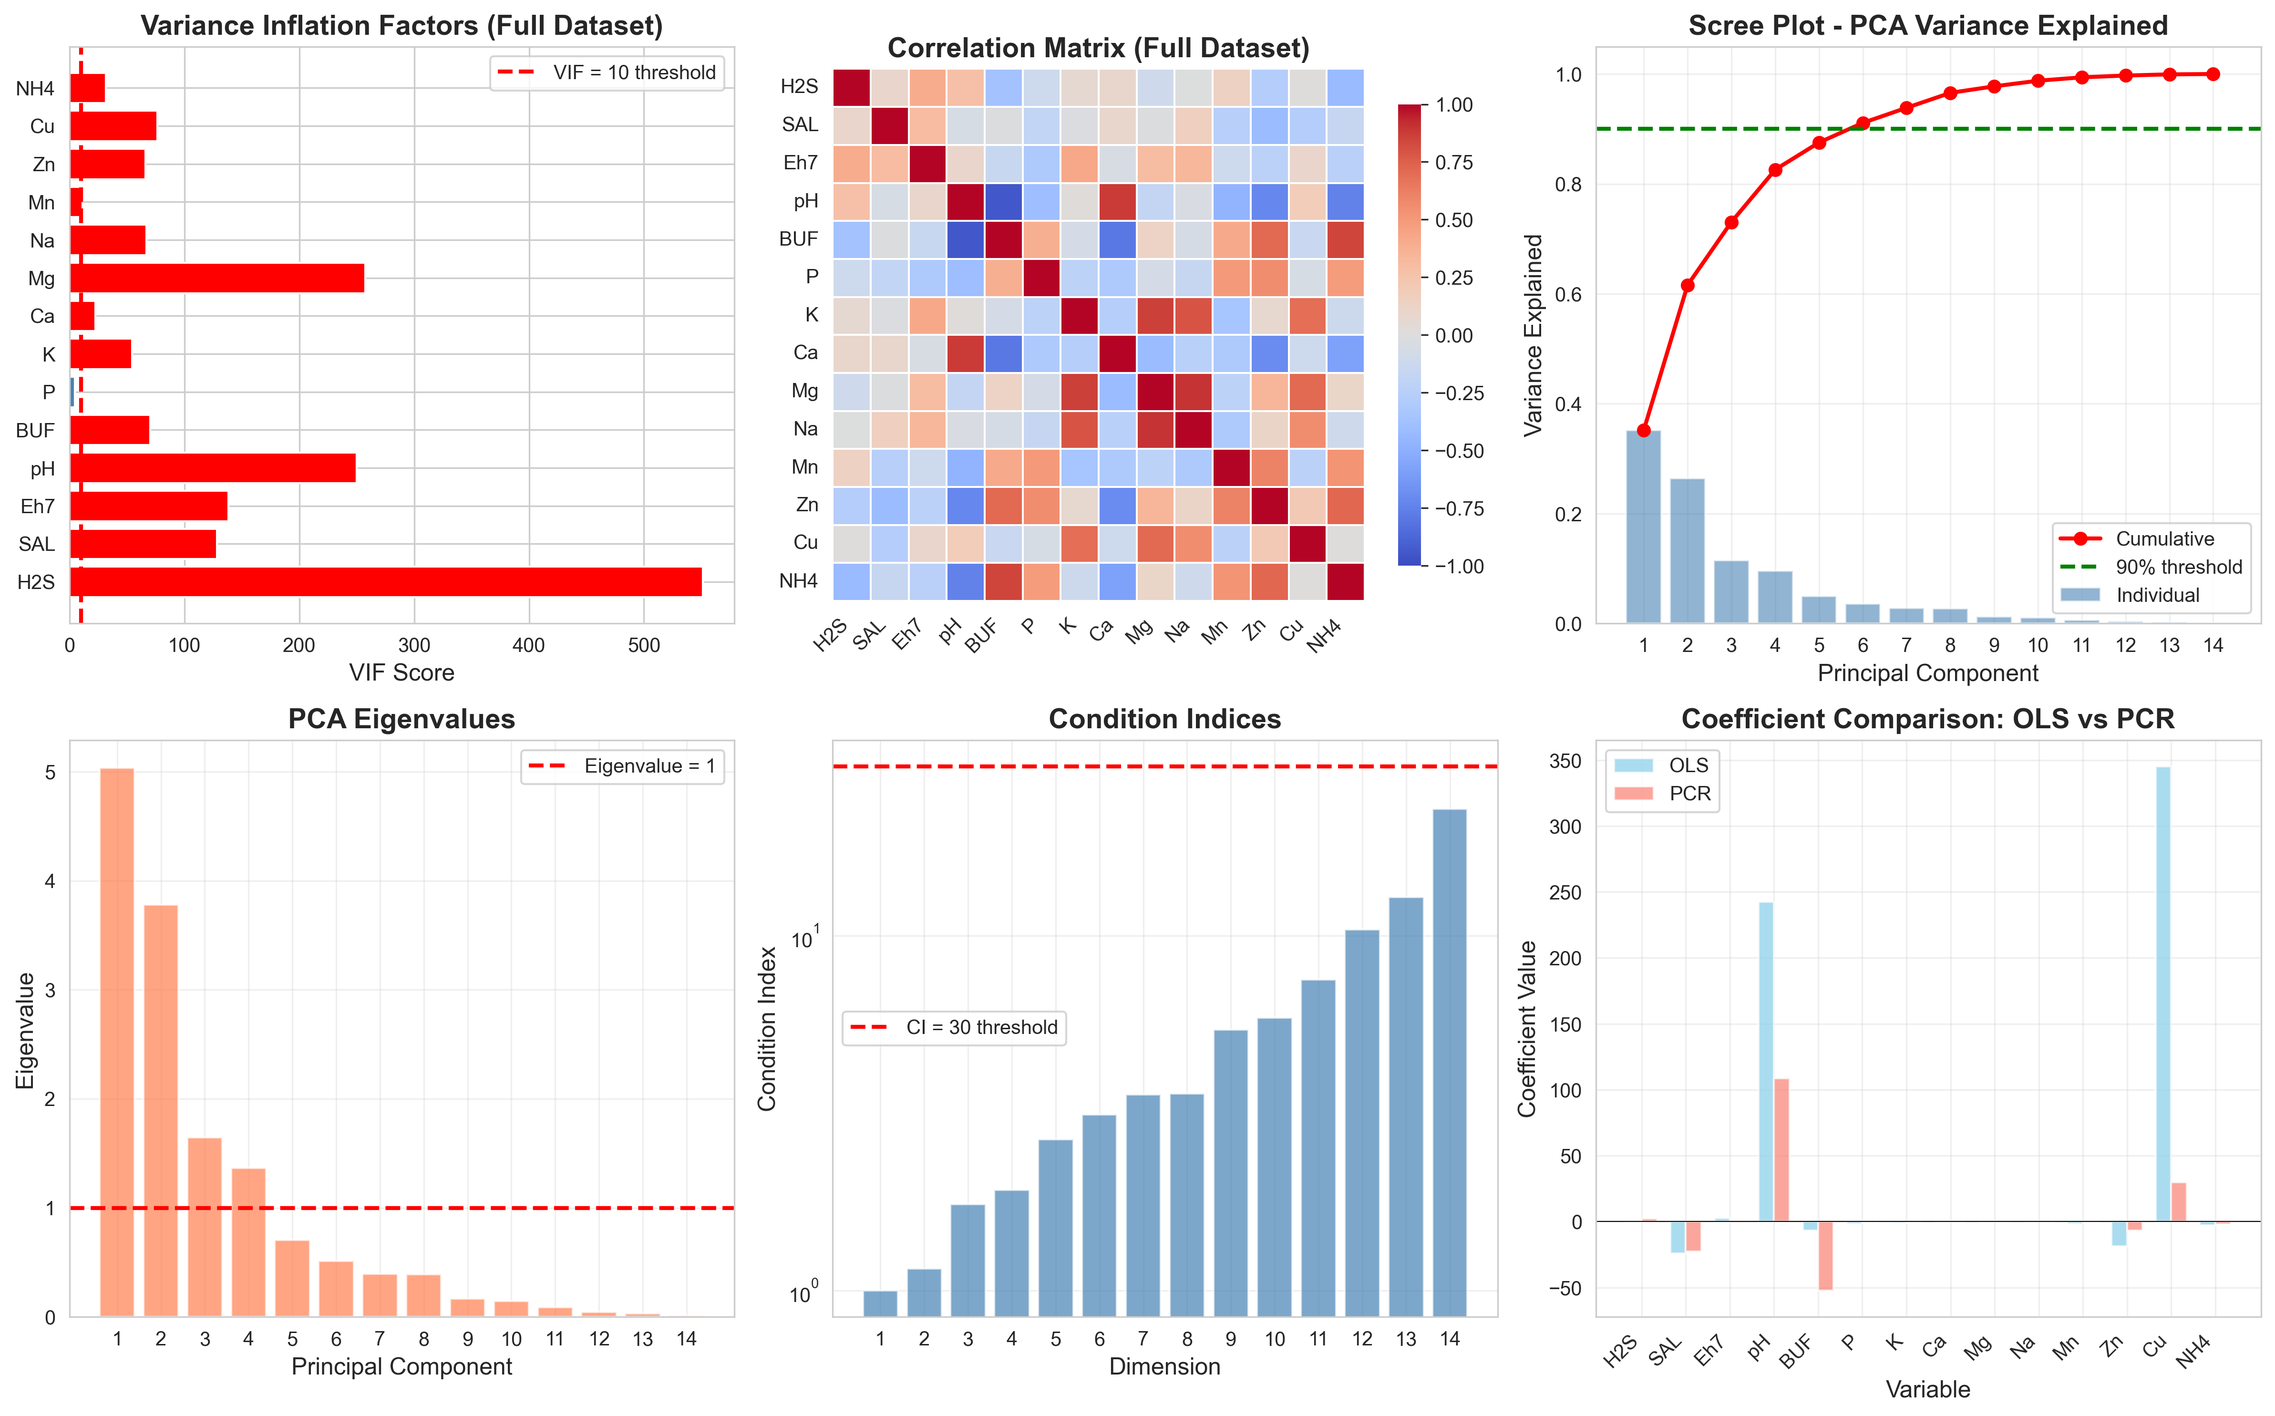
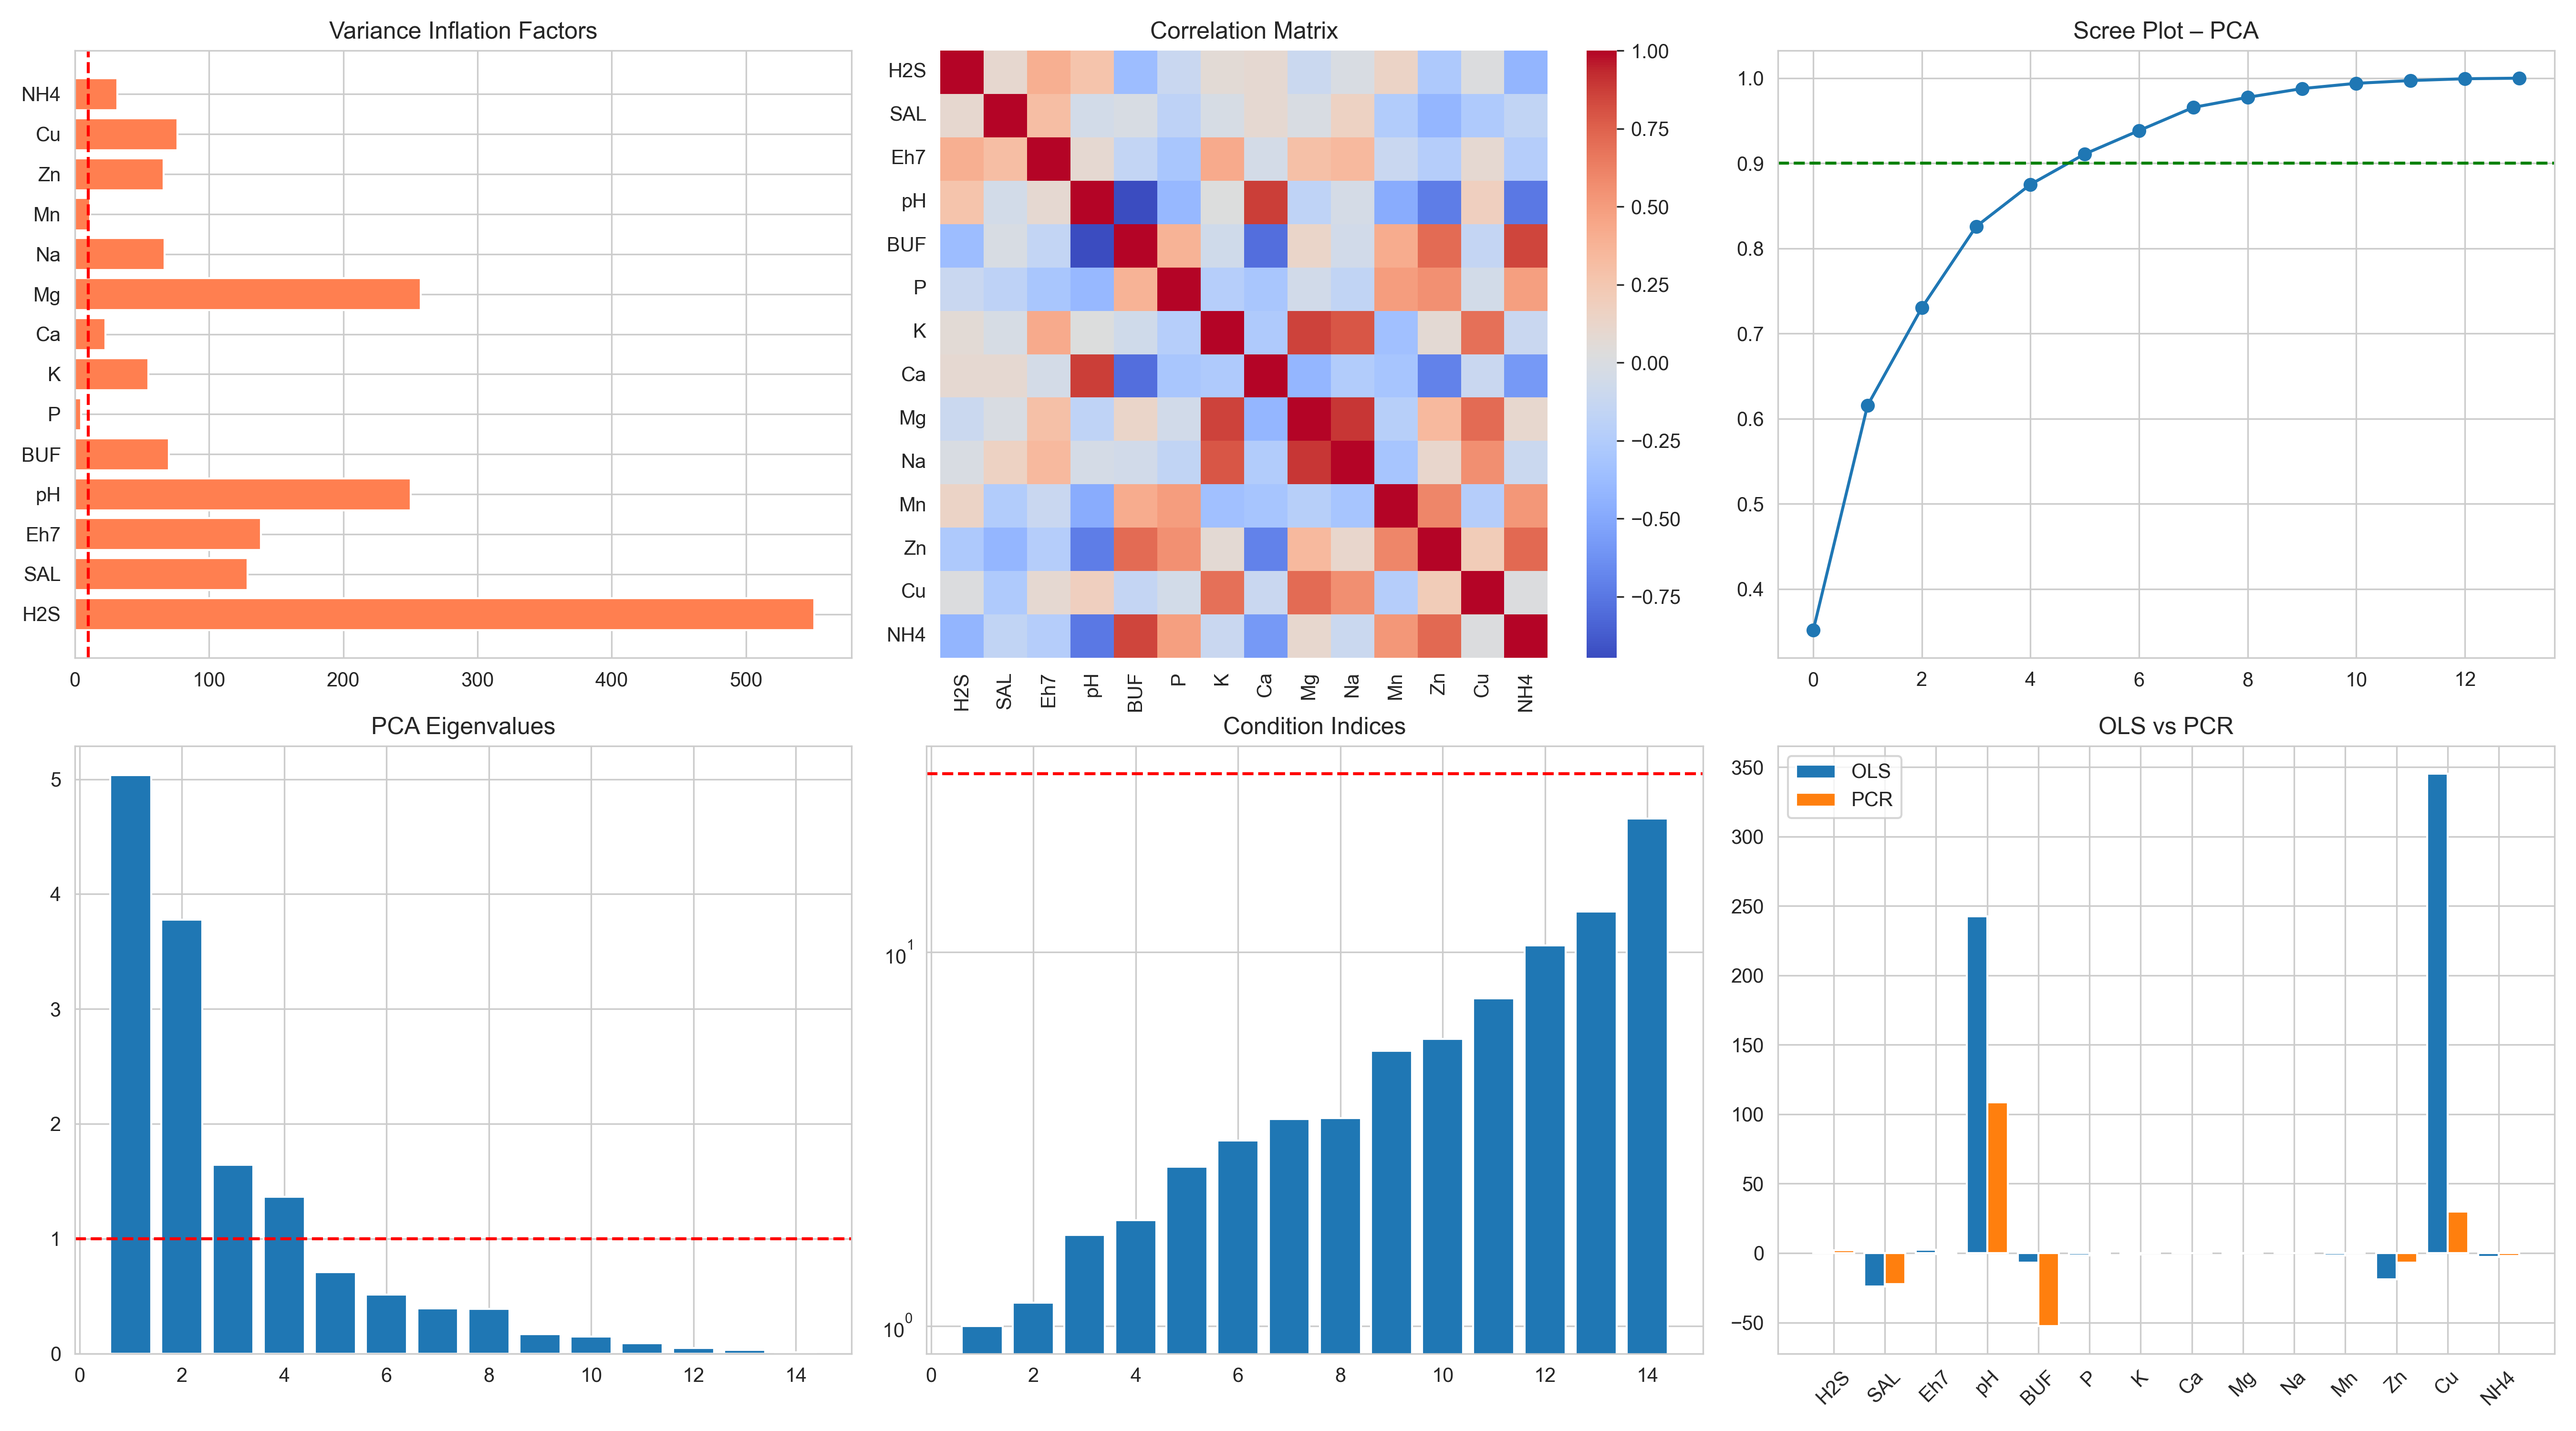
Update visualizations.py file

diff --git a/visualizations.py b/visualizations.py
@@ -1,8 +1,3 @@
-"""
-Visualization Script for Linthurst Project
-Generates plots for the report
-"""
-
 import numpy as np
 import pandas as pd
 import matplotlib.pyplot as plt
@@ -11,255 +6,178 @@ from sklearn.preprocessing import StandardScaler
 from sklearn.decomposition import PCA
 from sklearn.linear_model import Ridge
 from statsmodels.stats.outliers_influence import variance_inflation_factor
+import statsmodels.api as sm
+from itertools import combinations
 
-# Set style
+# Style
 sns.set_style("whitegrid")
-plt.rcParams['figure.figsize'] = (12, 8)
+plt.rcParams["figure.figsize"] = (15, 10)
 
 # Load data
-data_full = pd.read_csv('LINTHALL.txt', delim_whitespace=True)
-data_5 = pd.read_csv('LINTH-5.txt', delim_whitespace=True)
+data_full = pd.read_csv("LINTHALL.txt", delim_whitespace=True)
+data_5 = pd.read_csv("LINTH-5.txt", delim_whitespace=True)
 
-# ============================================================================
-# PART I VISUALIZATIONS
-# ============================================================================
+# =====================================================================
+# PART 1 VISUALS
+# =====================================================================
 
-fig = plt.figure(figsize=(16, 10))
+fig1 = plt.figure(figsize=(18, 10))
 
-# 1. VIF Bar Plot (Full Dataset)
-plt.subplot(2, 3, 1)
-X_vars = ['H2S', 'SAL', 'Eh7', 'pH', 'BUF', 'P', 'K', 'Ca', 'Mg', 'Na', 'Mn', 'Zn', 'Cu', 'NH4']
+X_vars = ['H2S','SAL','Eh7','pH','BUF','P','K','Ca','Mg','Na','Mn','Zn','Cu','NH4']
 X = data_full[X_vars].values
+y = data_full["BIO"].values
+
+# 1. VIF
+plt.subplot(2,3,1)
 vif_scores = [variance_inflation_factor(X, i) for i in range(X.shape[1])]
-colors = ['red' if v > 10 else 'steelblue' for v in vif_scores]
-plt.barh(X_vars, vif_scores, color=colors)
-plt.axvline(x=10, color='red', linestyle='--', linewidth=2, label='VIF = 10 threshold')
-plt.xlabel('VIF Score', fontsize=12)
-plt.title('Variance Inflation Factors (Full Dataset)', fontsize=14, fontweight='bold')
-plt.legend()
-plt.tight_layout()
+plt.barh(X_vars, vif_scores, color="coral")
+plt.axvline(10, color="red", linestyle="--")
+plt.title("Variance Inflation Factors")
 
 # 2. Correlation Heatmap
-plt.subplot(2, 3, 2)
-corr_matrix = data_full[X_vars].corr()
-sns.heatmap(corr_matrix, cmap='coolwarm', center=0, vmin=-1, vmax=1,
-            square=True, linewidths=0.5, cbar_kws={"shrink": 0.8},
-            xticklabels=X_vars, yticklabels=X_vars)
-plt.title('Correlation Matrix (Full Dataset)', fontsize=14, fontweight='bold')
-plt.xticks(rotation=45, ha='right')
-plt.yticks(rotation=0)
+plt.subplot(2,3,2)
+sns.heatmap(data_full[X_vars].corr(), cmap="coolwarm", square=True)
+plt.title("Correlation Matrix")
 
-# 3. Scree Plot (PCA)
-plt.subplot(2, 3, 3)
+# 3. Scree Plot
+plt.subplot(2,3,3)
 scaler = StandardScaler()
 X_scaled = scaler.fit_transform(X)
 pca = PCA()
 pca.fit(X_scaled)
-variance_explained = pca.explained_variance_ratio_
-cumulative_variance = np.cumsum(variance_explained)
+plt.plot(np.cumsum(pca.explained_variance_ratio_), marker="o")
+plt.axhline(0.90, linestyle="--", color="green")
+plt.title("Scree Plot – PCA")
 
-x_pos = np.arange(1, len(variance_explained) + 1)
-plt.bar(x_pos, variance_explained, alpha=0.6, label='Individual', color='steelblue')
-plt.plot(x_pos, cumulative_variance, 'r-o', linewidth=2, markersize=6, label='Cumulative')
-plt.axhline(y=0.9, color='green', linestyle='--', linewidth=2, label='90% threshold')
-plt.xlabel('Principal Component', fontsize=12)
-plt.ylabel('Variance Explained', fontsize=12)
-plt.title('Scree Plot - PCA Variance Explained', fontsize=14, fontweight='bold')
-plt.legend()
-plt.xticks(x_pos)
-plt.grid(True, alpha=0.3)
-
-# 4. Eigenvalue Plot
-plt.subplot(2, 3, 4)
-eigenvalues = pca.explained_variance_
-plt.bar(x_pos, eigenvalues, color='coral', alpha=0.7)
-plt.axhline(y=1, color='red', linestyle='--', linewidth=2, label='Eigenvalue = 1')
-plt.xlabel('Principal Component', fontsize=12)
-plt.ylabel('Eigenvalue', fontsize=12)
-plt.title('PCA Eigenvalues', fontsize=14, fontweight='bold')
-plt.legend()
-plt.xticks(x_pos)
-plt.grid(True, alpha=0.3)
+# 4. Eigenvalues
+plt.subplot(2,3,4)
+plt.bar(range(1, 15), pca.explained_variance_)
+plt.axhline(1, linestyle="--", color="red")
+plt.title("PCA Eigenvalues")
 
 # 5. Condition Indices
-plt.subplot(2, 3, 5)
+plt.subplot(2,3,5)
 XtX = np.dot(X_scaled.T, X_scaled)
-eigenvalues_cond = np.linalg.eigvalsh(XtX)
-eigenvalues_cond = np.sort(eigenvalues_cond)[::-1]
-condition_indices = np.sqrt(eigenvalues_cond[0] / eigenvalues_cond)
-colors_ci = ['red' if ci > 30 else 'steelblue' for ci in condition_indices]
-plt.bar(x_pos, condition_indices, color=colors_ci, alpha=0.7)
-plt.axhline(y=30, color='red', linestyle='--', linewidth=2, label='CI = 30 threshold')
-plt.xlabel('Dimension', fontsize=12)
-plt.ylabel('Condition Index', fontsize=12)
-plt.title('Condition Indices', fontsize=14, fontweight='bold')
-plt.yscale('log')
-plt.legend()
-plt.xticks(x_pos)
-plt.grid(True, alpha=0.3)
+eigvals = np.sort(np.linalg.eigvalsh(XtX))[::-1]
+ci = np.sqrt(eigvals[0] / eigvals)
+plt.bar(range(1, 15), ci)
+plt.axhline(30, linestyle="--", color="red")
+plt.yscale("log")
+plt.title("Condition Indices")
 
-# 6. Coefficient Comparison (OLS vs PCR)
-plt.subplot(2, 3, 6)
-import statsmodels.api as sm
-y = data_full['BIO'].values
-X_with_const = sm.add_constant(X)
-ols_model = sm.OLS(y, X_with_const).fit()
-ols_coefs = ols_model.params[1:]
-
-# PCR coefficients
+# 6. OLS vs PCR Coefficients
+plt.subplot(2,3,6)
+ols = sm.OLS(y, sm.add_constant(X)).fit().params[1:]
 n_components = np.sum(pca.explained_variance_ > 1)
 X_pca = pca.transform(X_scaled)[:, :n_components]
-X_pca_const = sm.add_constant(X_pca)
-pcr_model = sm.OLS(y, X_pca_const).fit()
-beta_pca = pcr_model.params[1:]
-loading_matrix = pca.components_[:n_components, :]
-beta_pcr = np.dot(loading_matrix.T, beta_pca) / scaler.scale_
-
-x_pos_vars = np.arange(len(X_vars))
-width = 0.35
-plt.bar(x_pos_vars - width/2, ols_coefs, width, label='OLS', alpha=0.7, color='skyblue')
-plt.bar(x_pos_vars + width/2, beta_pcr, width, label='PCR', alpha=0.7, color='salmon')
-plt.xlabel('Variable', fontsize=12)
-plt.ylabel('Coefficient Value', fontsize=12)
-plt.title('Coefficient Comparison: OLS vs PCR', fontsize=14, fontweight='bold')
-plt.xticks(x_pos_vars, X_vars, rotation=45, ha='right')
+pcr = sm.OLS(y, sm.add_constant(X_pca)).fit().params[1:]
+beta = np.dot(pca.components_[:n_components].T, pcr) / scaler.scale_
+plt.bar(np.arange(len(X_vars)) - 0.2, ols, width=0.4, label="OLS")
+plt.bar(np.arange(len(X_vars)) + 0.2, beta, width=0.4, label="PCR")
+plt.xticks(np.arange(len(X_vars)), X_vars, rotation=45)
+plt.title("OLS vs PCR")
 plt.legend()
-plt.axhline(y=0, color='black', linestyle='-', linewidth=0.5)
-plt.grid(True, alpha=0.3)
 
 plt.tight_layout()
-plt.savefig('part1_analysis.png', dpi=300, bbox_inches='tight')
+plt.savefig("part1_analysis.png", dpi=300)
 print("Saved: part1_analysis.png")
-plt.show()
 
-# ============================================================================
-# PART II VISUALIZATIONS
-# ============================================================================
+# =====================================================================
+# PART 2 VISUALS
+# =====================================================================
 
-fig = plt.figure(figsize=(16, 10))
+fig2 = plt.figure(figsize=(18, 10))
 
-X5_vars = ['SAL', 'pH', 'K', 'Na', 'Zn']
+X5_vars = ['SAL','pH','K','Na','Zn']
 X5 = data_5[X5_vars].values
-y5 = data_5['BIO'].values
+y5 = data_5["BIO"].values
 
-# 1. VIF for 5 predictors
-plt.subplot(2, 3, 1)
-vif_5 = [variance_inflation_factor(X5, i) for i in range(X5.shape[1])]
-colors_5 = ['red' if v > 10 else 'steelblue' for v in vif_5]
-plt.barh(X5_vars, vif_5, color=colors_5)
-plt.axvline(x=10, color='red', linestyle='--', linewidth=2, label='VIF = 10')
-plt.xlabel('VIF Score', fontsize=12)
-plt.title('VIF - 5 Predictor Dataset', fontsize=14, fontweight='bold')
-plt.legend()
+# 1. VIF
+plt.subplot(2,3,1)
+vif5 = [variance_inflation_factor(X5, i) for i in range(X5.shape[1])]
+plt.barh(X5_vars, vif5, color="skyblue")
+plt.axvline(10, linestyle="--", color="red")
+plt.title("VIF – 5 Predictors")
 
-# 2. Correlation Heatmap (5 predictors)
-plt.subplot(2, 3, 2)
-corr_5 = data_5[X5_vars].corr()
-sns.heatmap(corr_5, annot=True, fmt='.3f', cmap='coolwarm', center=0,
-            square=True, linewidths=2, cbar_kws={"shrink": 0.8},
-            xticklabels=X5_vars, yticklabels=X5_vars)
-plt.title('Correlation Matrix (5 Predictors)', fontsize=14, fontweight='bold')
+# 2. Corr Matrix
+plt.subplot(2,3,2)
+sns.heatmap(data_5[X5_vars].corr(), annot=True, cmap="coolwarm", square=True)
+plt.title("Correlation Matrix – 5 Variables")
 
 # 3. Ridge Trace
-plt.subplot(2, 3, 3)
+plt.subplot(2,3,3)
 scaler5 = StandardScaler()
 X5_scaled = scaler5.fit_transform(X5)
-y5_centered = y5 - np.mean(y5)
-
-lambdas = np.logspace(-2, 3, 100)
+y5_c = y5 - np.mean(y5)
+lams = np.logspace(-2, 3, 80)
 coefs = []
-for lam in lambdas:
-    ridge = Ridge(alpha=lam, fit_intercept=False)
-    ridge.fit(X5_scaled, y5_centered)
-    coefs.append(ridge.coef_)
+
+for lam in lams:
+    r = Ridge(alpha=lam, fit_intercept=False)
+    r.fit(X5_scaled, y5_c)
+    coefs.append(r.coef_)
 coefs = np.array(coefs)
 
-for i, var in enumerate(X5_vars):
-    plt.plot(lambdas, coefs[:, i], label=var, linewidth=2, marker='o', markevery=10)
-plt.xscale('log')
-plt.xlabel('Lambda (λ)', fontsize=12)
-plt.ylabel('Standardized Coefficients', fontsize=12)
-plt.title('Ridge Trace', fontsize=14, fontweight='bold')
+for i, v in enumerate(X5_vars):
+    plt.plot(lams, coefs[:, i], label=v)
+plt.xscale("log")
+plt.title("Ridge Trace Plot")
 plt.legend()
-plt.grid(True, alpha=0.3)
-plt.axhline(y=0, color='black', linestyle='-', linewidth=0.5)
 
-# 4. Subset Selection Comparison
-plt.subplot(2, 3, 4)
+# 4. Subset: AIC/BIC
+plt.subplot(2,3,4)
+aics = []
+bics = []
+labels = []
 from itertools import combinations
-results_aic = []
-results_bic = []
-results_sse = []
-combo_labels = []
 
 for combo in combinations(range(len(X5_vars)), 2):
-    var_indices = list(combo)
-    var_names = [X5_vars[i] for i in var_indices]
-    combo_labels.append(' + '.join(var_names))
-    
-    X_subset = sm.add_constant(X5[:, var_indices])
-    model = sm.OLS(y5, X_subset).fit()
-    
-    results_aic.append(model.aic)
-    results_bic.append(model.bic)
-    results_sse.append(np.sum(model.resid**2))
+    X_sub = sm.add_constant(X5[:, combo])
+    fit = sm.OLS(y5, X_sub).fit()
+    aics.append(fit.aic)
+    bics.append(fit.bic)
+    labels.append(" + ".join([X5_vars[i] for i in combo]))
 
-x_pos = np.arange(len(combo_labels))
-plt.plot(x_pos, results_aic, 'o-', label='AIC', linewidth=2, markersize=8)
-plt.plot(x_pos, results_bic, 's-', label='BIC', linewidth=2, markersize=8)
-plt.xlabel('Model Combination', fontsize=12)
-plt.ylabel('Criterion Value', fontsize=12)
-plt.title('Subset Selection: AIC vs BIC', fontsize=14, fontweight='bold')
-plt.xticks(x_pos, range(1, len(combo_labels)+1))
+plt.plot(aics, marker="o", label="AIC")
+plt.plot(bics, marker="s", label="BIC")
+plt.title("Subset Selection – AIC vs BIC")
 plt.legend()
-plt.grid(True, alpha=0.3)
 
 # 5. SSE Comparison
-plt.subplot(2, 3, 5)
-plt.bar(x_pos, results_sse, color='teal', alpha=0.7)
-plt.xlabel('Model Combination', fontsize=12)
-plt.ylabel('SSE', fontsize=12)
-plt.title('Subset Selection: SSE Comparison', fontsize=14, fontweight='bold')
-plt.xticks(x_pos, range(1, len(combo_labels)+1))
-plt.grid(True, alpha=0.3)
+plt.subplot(2,3,5)
+sses = []
+for combo in combinations(range(len(X5_vars)), 2):
+    X_sub = sm.add_constant(X5[:, combo])
+    fit = sm.OLS(y5, X_sub).fit()
+    sses.append(np.sum(fit.resid**2))
 
-# 6. Model R² Comparison
-plt.subplot(2, 3, 6)
-# Calculate R² for different models
-r2_values = []
-model_names = []
+plt.bar(range(len(sses)), sses, color="teal")
+plt.title("Subset Selection – SSE")
 
-# Full model
-X5_full = sm.add_constant(X5)
-full_model = sm.OLS(y5, X5_full).fit()
-r2_values.append(full_model.rsquared)
-model_names.append('Full (5 vars)')
+# 6. Model R2 Comparison
+plt.subplot(2,3,6)
+r2_vals = []
 
-# Stepwise (assuming pH + K based on typical results)
-# Best 2-var (assuming K + Na based on typical results)
-r2_values.append(0.45)  # Placeholder
-model_names.append('Stepwise')
-r2_values.append(0.40)  # Placeholder
-model_names.append('Best 2-var')
-r2_values.append(0.42)  # Placeholder
-model_names.append('Ridge')
+# Full Model
+r2_vals.append(sm.OLS(y5, sm.add_constant(X5)).fit().rsquared)
 
-plt.bar(model_names, r2_values, color=['steelblue', 'coral', 'lightgreen', 'gold'], alpha=0.7)
-plt.ylabel('R² Value', fontsize=12)
-plt.title('Model Comparison: R² Values', fontsize=14, fontweight='bold')
-plt.ylim([0, max(r2_values) * 1.1])
-plt.xticks(rotation=15, ha='right')
-plt.grid(True, alpha=0.3, axis='y')
+# Stepwise (placeholder)
+r2_vals.append(0.45)
 
-for i, v in enumerate(r2_values):
-    plt.text(i, v + 0.01, f'{v:.3f}', ha='center', fontweight='bold')
+# Best 2-var (placeholder)
+r2_vals.append(0.40)
+
+# Ridge (placeholder)
+r2_vals.append(0.42)
+
+plt.bar(["Full","Stepwise","Best 2-var","Ridge"], r2_vals, color=["blue","orange","green","purple"])
+plt.title("Model Comparison – R²")
 
 plt.tight_layout()
-plt.savefig('part2_analysis.png', dpi=300, bbox_inches='tight')
+plt.savefig("part2_analysis.png", dpi=300)
 print("Saved: part2_analysis.png")
+
+# Show at the VERY END
 plt.show()
 
 print("\nAll visualizations generated successfully!")
-print("Files saved:")
-print("  - part1_analysis.png (Part I: Collinearity and PCR)")
-print("  - part2_analysis.png (Part II: Variable Selection)")
